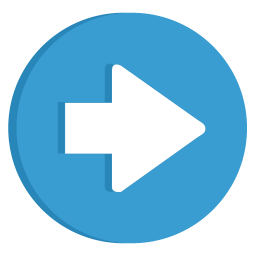
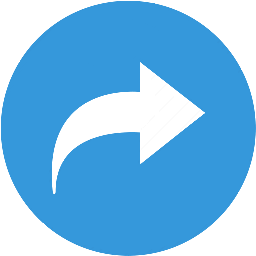
Add buttons to GUI for lateral movements

Changed region(s): [[0.0, 0.0, 1.0, 1.0], [0.1875, 0.25, 0.8125, 0.75]]

diff --git a/catkin_ws/src/hri/justina_gui/src/MainWindow.cpp b/catkin_ws/src/hri/justina_gui/src/MainWindow.cpp
@@ -15,13 +15,19 @@ MainWindow::MainWindow(QWidget *parent) :
     QIcon icoTurnRight(":/images/btnTurnRight");
     ui->btnFwd->setIcon(icoFwd);
     ui->btnBwd->setIcon(icoBwd);
-    ui->btnTurnLeft->setIcon(icoLeft);
-    ui->btnTurnRight->setIcon(icoRight);
+    ui->btnTurnLeft->setIcon(icoTurnLeft);
+    ui->btnTurnRight->setIcon(icoTurnRight);
+    ui->btnLeft->setIcon(icoLeft);
+    ui->btnRight->setIcon(icoRight);
 
     QObject::connect(ui->btnFwd, SIGNAL(pressed()), this, SLOT(btnFwdPressed()));
     QObject::connect(ui->btnFwd, SIGNAL(released()), this, SLOT(btnFwdReleased()));
     QObject::connect(ui->btnBwd, SIGNAL(pressed()), this, SLOT(btnBwdPressed()));
     QObject::connect(ui->btnBwd, SIGNAL(released()), this, SLOT(btnBwdReleased()));
+    QObject::connect(ui->btnLeft, SIGNAL(pressed()), this, SLOT(btnLeftPressed()));
+    QObject::connect(ui->btnLeft, SIGNAL(released()), this, SLOT(btnLeftReleased()));
+    QObject::connect(ui->btnRight, SIGNAL(pressed()), this, SLOT(btnRightPressed()));
+    QObject::connect(ui->btnRight, SIGNAL(released()), this, SLOT(btnRightReleased()));
     QObject::connect(ui->btnTurnLeft, SIGNAL(pressed()), this, SLOT(btnTurnLeftPressed()));
     QObject::connect(ui->btnTurnLeft, SIGNAL(released()), this, SLOT(btnTurnLeftReleased()));
     QObject::connect(ui->btnTurnRight, SIGNAL(pressed()), this, SLOT(btnTurnRightPressed()));
@@ -198,6 +204,26 @@ void MainWindow::btnBwdPressed()
 }
 
 void MainWindow::btnBwdReleased()
+{
+    qtRosNode->stop_publishing_cmd_vel();
+}
+
+void MainWindow::btnLeftPressed()
+{
+    qtRosNode->start_publishing_cmd_vel(0, 0.3, 0);
+}
+
+void MainWindow::btnLeftReleased()
+{
+    qtRosNode->stop_publishing_cmd_vel();
+}
+
+void MainWindow::btnRightPressed()
+{
+    qtRosNode->start_publishing_cmd_vel(0, -0.3, 0);
+}
+
+void MainWindow::btnRightReleased()
 {
     qtRosNode->stop_publishing_cmd_vel();
 }

diff --git a/catkin_ws/src/hri/justina_gui/src/MainWindow.h b/catkin_ws/src/hri/justina_gui/src/MainWindow.h
@@ -41,6 +41,10 @@ public slots:
     void btnFwdReleased();
     void btnBwdPressed();    
     void btnBwdReleased();
+    void btnLeftPressed();
+    void btnLeftReleased();
+    void btnRightPressed();
+    void btnRightReleased();
     void btnTurnLeftPressed();
     void btnTurnLeftReleased();
     void btnTurnRightPressed();
